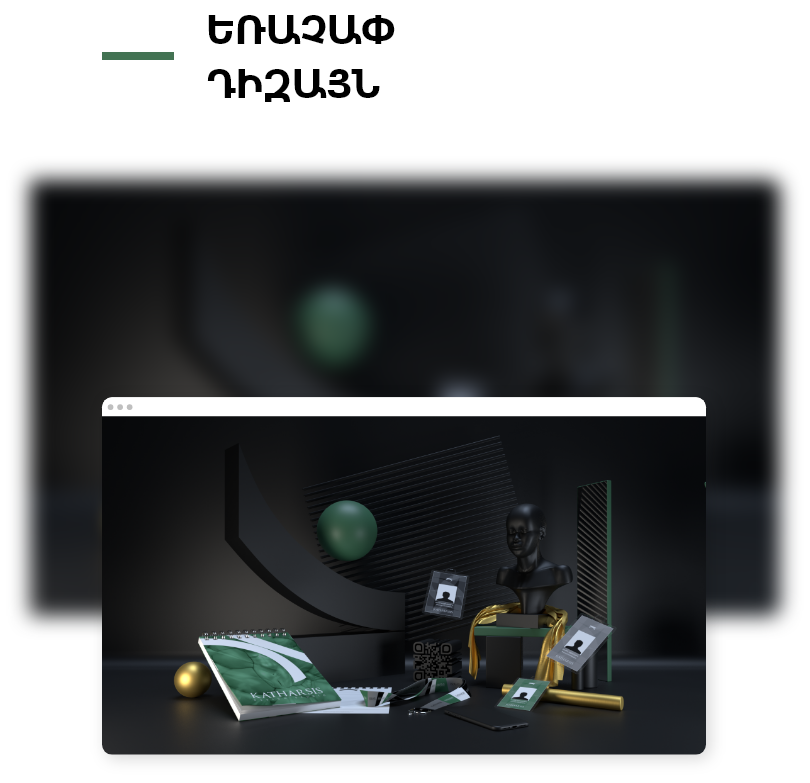
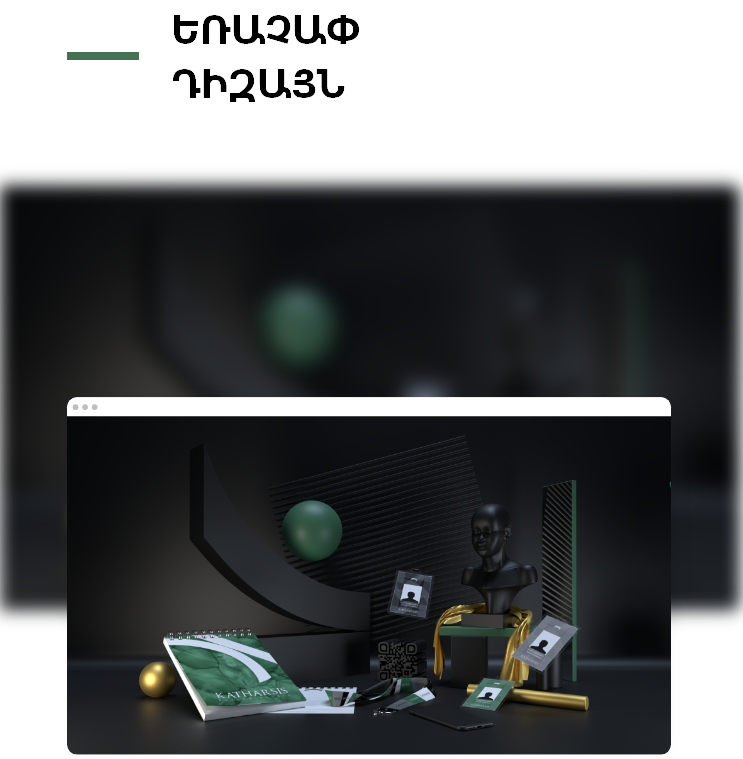
ee

diff --git a/mobile/styles/style_home.css b/mobile/styles/style_home.css
@@ -113,74 +113,72 @@
   .branding_design_section {
     top: 40vw;
     position: relative;
-    width: 95%;
-    display: flex;
+    width: 100%;
     padding-bottom: 10%;
   }
 
   .branding_design {
-    margin: 0 0 0 -20px;
+    margin: 0 auto;
     display: inline-block;
   }
 
   .branding_design_section  .branding_design img{
-    width: 51.2vw;
+    width: 100%;
     vertical-align: middle;
   }
 
   .branding_design_text {
     position: relative;
-    float: right;
-    left: 1.5vw;
+    margin: 0 auto;
+    width: 80%;
+    padding-top: 5%;
     height: 100%;
   }
 
   /* web_design_section */
   .web_design_section {
-    padding-left: 5%;
     top: 45vw;
     position: relative;
     width: 100%;
-    display: flex;
     padding-bottom: 12%;
   }
 
   .web_design_section  .web_design img{
-    width: 51.2vw;
+    width: 100%;
     vertical-align: middle;
   }
 
   .web_design_text {
     position: relative;
-    float: left;
-    right: 1.5vw;
+    margin: 0 auto;
+    width: 80%;
+    padding-top: 5%;
     height: 100%;
-    min-width: 30vw;
   }
 
   /* 3d_design_section */
   .treeD_design_section {
     top: 50vw;
     position: relative;
-    width: 95%;
-    display: flex;
+    width: 100%;
     padding-bottom: 10%;
   }
 
   .treeD_design {
-    margin: 0 0 0 -20px;
+    margin: 0 auto;
     display: inline-block;
   }
 
   .treeD_design_section  .treeD_design img{
-    width: 51.2vw;
+    width: 100%;
     vertical-align: middle;
   }
 
   .treeD_design_text {
     position: relative;
-    float: right;
-    left: 1.5vw;
+    margin: 0 auto;
+    width: 80%;
+    padding-top: 5%;
     height: 100%;
   }
 

diff --git a/mobile/hy/home.html b/mobile/hy/home.html
@@ -88,12 +88,12 @@
 
   <!-- web_design_section -->
   <div class="web_design_section">
+    <div class="web_design">
+      <img src="../img/home-img/hy/web_design.png">
+    </div>
     <div class="web_design_text">
       <span style="font-size: 3vw; font-weight: 400; color: #437353; width: 500px;">Վեբ դիզայնում պետք է հասկանալ, թե ինչպես է գործում մարդու ընկալումը: Այն պետք է կարողանա հաճախորդի ուշադրությունը հրավիրել լավագույն տարրերի վրա: Վեբ ձևավորման տարրերը բազմազան և եզակի են, բայց պետք է կարողանալ ընտրել այնպիսի կայքը, որը համապատասխանում է ոլորտին: Ահա թե ինչու պետք է ճշգրիտ ընտրել ամեն ինչ՝ գույն, տառատեսակ, երկրաչափական մարմիններ և այլն:</span>
       <p><a href="portfolio" style="color: #808080; font-size: 4vw; font-weight: 400; text-decoration: none;">Իմանալ ավելին ></a></p>
-    </div>
-    <div class="web_design">
-      <img src="../img/home-img/hy/web_design.png">
     </div>
   </div>
   <!-- treeD_design_section -->

diff --git a/mobile/scripts/menu_navigation.js b/mobile/scripts/menu_navigation.js
@@ -1,13 +1,13 @@
 
-var prevScrollpos = window.pageYOffset;
-window.onscroll = function() {
-    var currentScrollpos = window.pageYOffset;
-    if(prevScrollpos > currentScrollpos) {
-        document.getElementById("header").style.top = "0";
-    } else {
-        document.getElementById("header").style.top = "-100px";
-    }
+// var prevScrollpos = window.pageYOffset;
+// window.onscroll = function() {
+//     var currentScrollpos = window.pageYOffset;
+//     if(prevScrollpos > currentScrollpos) {
+//         document.getElementById("header").style.top = "0";
+//     } else {
+//         document.getElementById("header").style.top = "-100px";
+//     }
 
-    prevScrollpos = currentScrollpos;
+//     prevScrollpos = currentScrollpos;
 
-}
+// }
